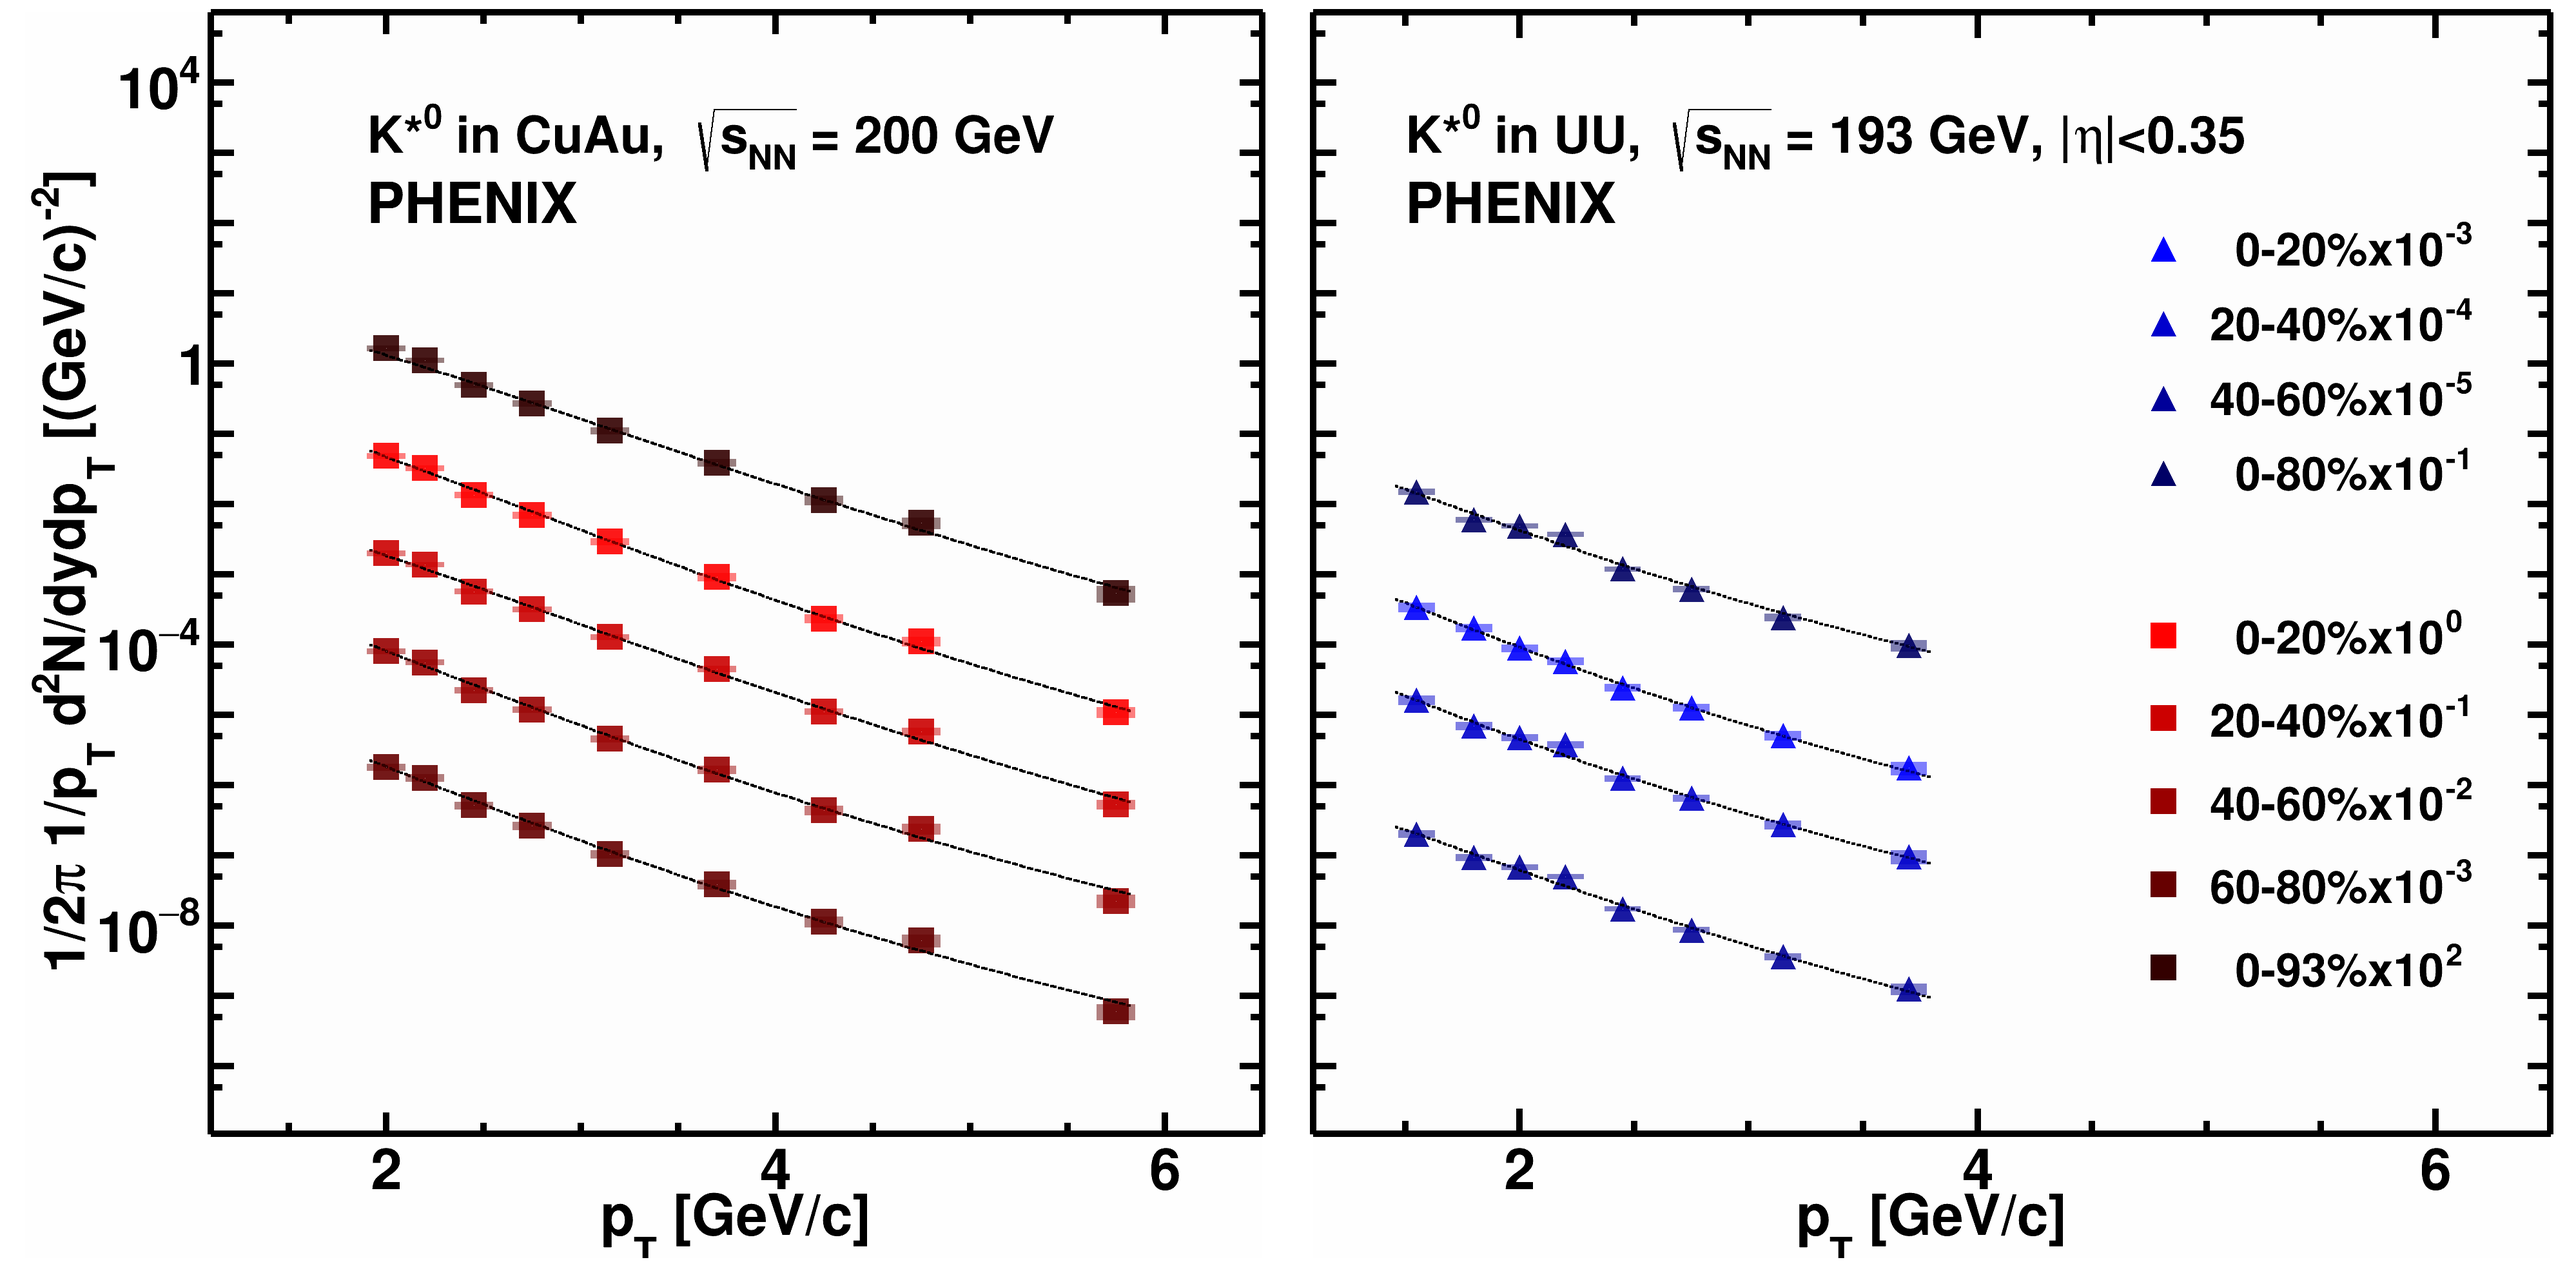
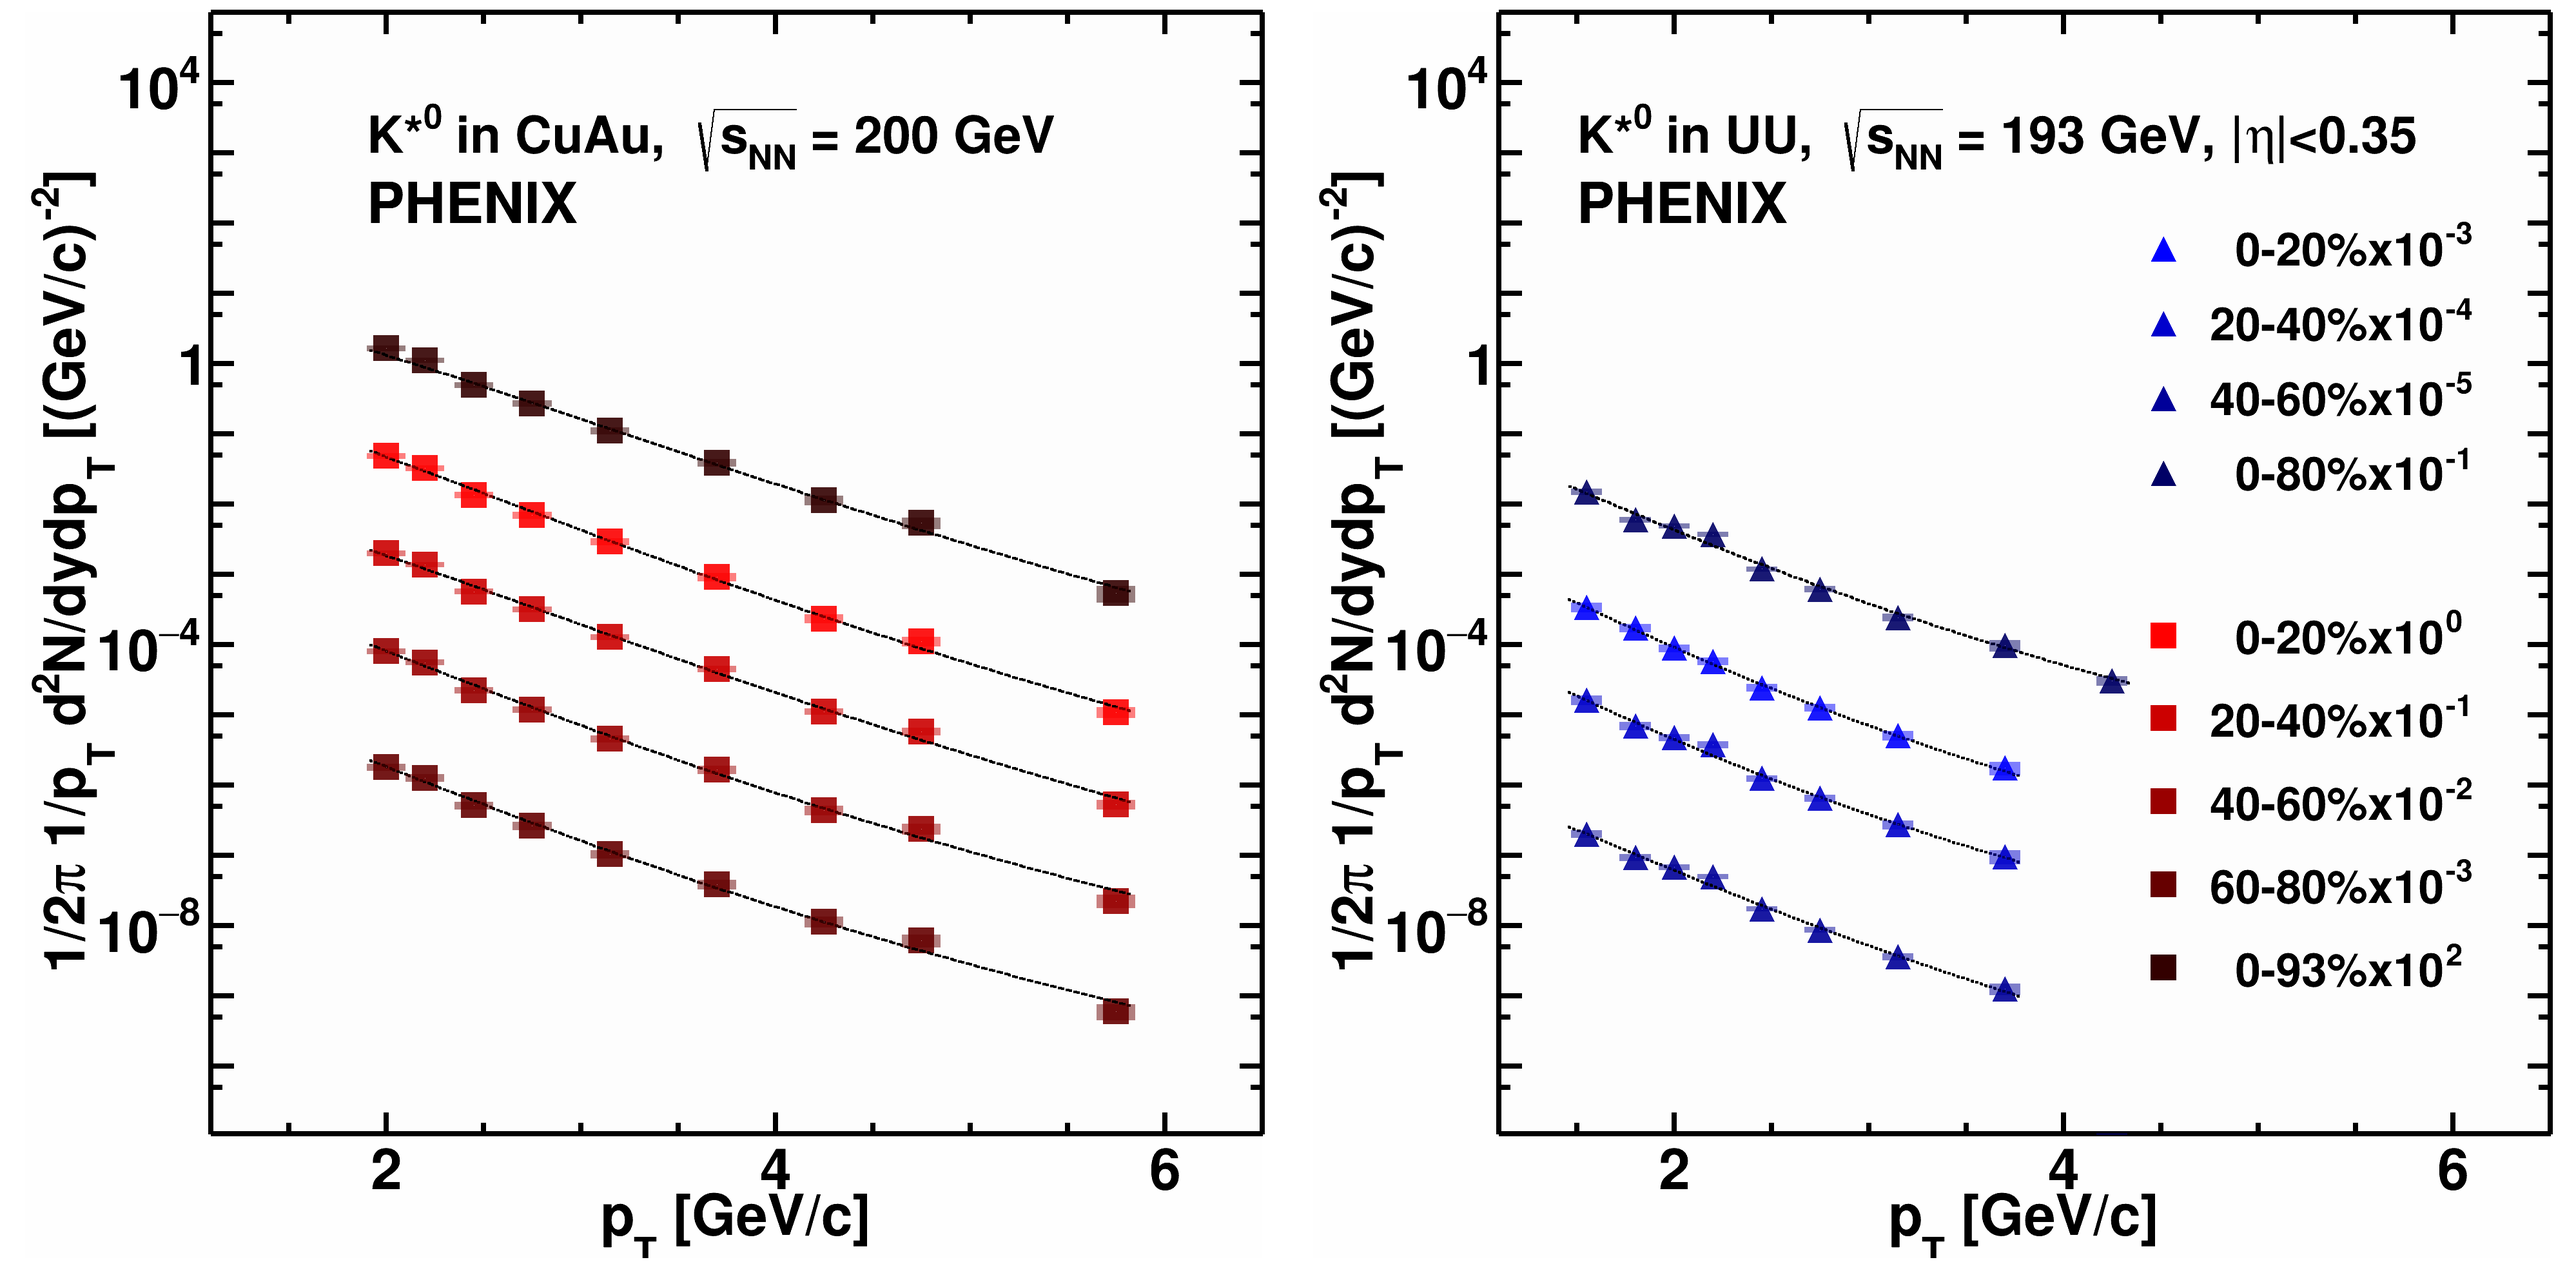
add plots

diff --git a/plotter.cpp b/plotter.cpp
@@ -242,7 +242,7 @@ void plotter_spectra_for_ppg_heavy() {
   Format_Legend(leg[0], 62, 0.04, 0, 0, "");
   TString name_cen_cuau[] = {"  0-20%", "20-40%", "40-60%", "60-80%", "  0-93%"};
   double par_sp_cuau[] = {0.15, 0.0, 0.1, 0.};
-  double param_pad_sp_cuau[] = {1.1, 6.5, 1.1e-11, 1e5 - 1, 0.95, 1.4, 0.05, 0.05, 1, 504, 504};
+  double param_pad_sp_cuau[] = {1.1, 6.5, 1.1e-11, 1e5 - 1, 0.95, 1.4, 0.05, 0.05, 1, 504, 504, 1};
   double koeff_levy_cuau[5] = {2 - 0.1, 5.75 + 0.1, 0.0455202, 10.0277, 0.252345};
   Color_t color_cuau[] = {kAzure, kAzure + 1, kAzure + 2, kAzure + 3, kBlack};
 
@@ -259,9 +259,10 @@ void plotter_spectra_for_ppg_heavy() {
   leg[1] = new TLegend(0.65, 0.6, 0.95, 0.9);
   Format_Legend(leg[1], 62, 0.04, 0, 0, "");
   TString name_cen_uu[] = {"  0-20%", "20-40%", "40-60%", "  0-80%"};
-  double par_sp_uu[] = {0., 0., 0.1, 0.0};
-  double param_pad_sp_uu[] = {1.1, 6.5, 1.1e-11, 1e5 - 1, 0.95, 1.4, 0.05, 0.05, 1, 504, 504};
+  double par_sp_uu[] = {0.15, 0., 0.1, 0.0};
+  double param_pad_sp_uu[] = {1.1, 6.5, 1.1e-11, 1e5 - 1, 0.95, 1.4, 0.05, 0.05, 1, 504, 504, 1};
   double koeff_levy_uu[] = {1.55 - 0.1, 3.7 + 0.1, 0.0455202, 10.0277, 0.252345};
+  double koeff_levy_uu_2[] = {1.55 - 0.1, 4.25 + 0.1, 0.0455202, 10.0277, 0.252345};
 
 
   auto c1 = new TCanvas("c1", "c1", 4000, 2000);
@@ -289,12 +290,15 @@ void plotter_spectra_for_ppg_heavy() {
     kstar_uu->sp_draw_sys(j);
     leg[1]->AddEntry(kstar_uu->graph_for_legend(5, j), name_cen_uu[j] + "x" + coeff_for_uu.name_coeff[j], "p");
   }
+
+  for (int j = 3; j < 4; ++j) {kstar_uu->sp_fit(koeff_levy_uu_2, j);}
+
   leg[0]->Draw();
   leg[1]->Draw();
   name_fig[1]->Draw();
   phenix[1]->Draw();
 
-  c1->Print("spectra_cuau_uu.png");
+  c1->Print("ppg_plots/spectra_cuau_uu.png");
 
   //
   auto levelwide = new TLine();
@@ -323,9 +327,10 @@ void plotter_spectra_for_ppg_heavy() {
   c2->cd(2);
   SetMarginPad(par_sp_uu);
   Format_Pad(param_pad_ratio_uu, sp_pad_title_x, "ratio");
-  for (int j = 0; j < 4; ++j) {
+  for (int j = 0; j < 3; ++j) {
     kstar_uu->data_levy_draw(j);
   }
+
   levelwide->DrawLine(param_pad_ratio_uu[0], 1, param_pad_ratio_uu[1], 1);
 
   c2->Print("ratio_cuau_uu.png");
@@ -344,24 +349,20 @@ void plotter_spectra_for_ppg_small() {
   TLegend *leg[3];
   coeff_scale_sp coeff_scale_small[3];
   double par_sp_small[3][4] = {
+          {0.15, 0.0, 0.1, 0.0},
           {0.15, 0., 0.1, 0.},
-          {0.,   0., 0.1, 0.},
-          {0.,   0., 0.1, 0.}
+          {0.15, 0.0, 0.1, 0.0}
   };
-  double param_pad_sp_small[3][11] = {
-          {1.1, 6.2, 1.1e-11, 1e5 - 1, 0.95, 1.4, 0.05, 0.05, 1, 504, 504},
-          {1.1, 6.2, 1.1e-11, 1e5 - 1, 0.95, 1.4, 0.05, 0.05, 1, 504, 504},
-          {1.1, 6.2, 1.1e-11, 1e5 - 1, 0.95, 1.4, 0.05, 0.05, 1, 504, 504}
+  double param_pad_sp_small[3][12] = {
+          {1.1, 6.2, 1.1e-11, 1e5 - 1, 0.95, 1.4, 0.05, 0.05, 1, 504, 504, 1},
+          {1.1, 6.2, 1.1e-11, 1e5 - 1, 0.95, 1.4, 0.05, 0.05, 1, 504, 504, 1},
+          {1.1, 6.2, 1.1e-11, 1e5 - 1, 0.95, 1.4, 0.05, 0.05, 1, 504, 504, 1}
   };
   TString name_cen_small[3][5] = {
           {"0-20%", "20-40%", "40-60%", "0-80%"},
           {"0-20%", "20-40%", "40-60%", "0-80%"},
           {"0-20%", "20-40%", "40-60%", "0-80%"}
   };
-
-  name_fig[0] = new TLatex(1.5, 1e3, "K*^{0} in pAl, #sqrt{s_{NN}} = 200 GeV, |#eta|<0.35");
-  name_fig[1] = new TLatex(1.5, 1e3, "K*^{0} in pAu, #sqrt{s_{NN}} = 200 GeV, |#eta|<0.35");
-  name_fig[2] = new TLatex(1.5, 1e3, "K*^{0} in ^{3}HeAu, #sqrt{s_{NN}} = 200 GeV, |#eta|<0.35");
 
 
   kstar_small[0] = new Particles("rab_kstar_pal", 4, n_kstar_pal, kMagenta);
@@ -370,6 +371,10 @@ void plotter_spectra_for_ppg_small() {
   kstar_small[0]->sp_scale(coeff_scale_small[0].coeff);
   kstar_small[0]->sp_format_graph(5, 15, 0.9);
   kstar_small[0]->sp_format_graph_sys(0.1, 5, 0.5);
+
+  name_fig[0] = new TLatex(1.5, 1e4, "K*^{0} in pAl, #sqrt{s_{NN}} = 200 GeV, |#eta|<0.35");
+  Format_Latex(name_fig[0], 62, 0.045, 2);
+
   leg[0] = new TLegend(0.7, 0.7, 0.95, 0.95);
   Format_Legend(leg[0], 42, 0.04, 0, 0, "");
 
@@ -380,6 +385,10 @@ void plotter_spectra_for_ppg_small() {
   kstar_small[1]->sp_scale(coeff_scale_small[1].coeff);
   kstar_small[1]->sp_format_graph(5, 15, 0.9);
   kstar_small[1]->sp_format_graph_sys(0.1, 5, 0.5);
+
+  name_fig[1] = new TLatex(1.5, 1e4, "K*^{0} in pAu, #sqrt{s_{NN}} = 200 GeV, |#eta|<0.35");
+  Format_Latex(name_fig[1], 62, 0.045, 2);
+
   leg[1] = new TLegend(0.7, 0.7, 0.95, 0.95);
   Format_Legend(leg[1], 42, 0.04, 0, 0, "");
 
@@ -390,6 +399,10 @@ void plotter_spectra_for_ppg_small() {
   kstar_small[2]->sp_scale(coeff_scale_small[2].coeff);
   kstar_small[2]->sp_format_graph(5, 15, 0.9);
   kstar_small[2]->sp_format_graph_sys(0.1, 5, 0.5);
+
+  name_fig[2] = new TLatex(1.5, 1e4, "K*^{0} in ^{3}HeAu, #sqrt{s_{NN}} = 200 GeV, |#eta|<0.35");
+  Format_Latex(name_fig[2], 62, 0.045, 2);
+
   leg[2] = new TLegend(0.7, 0.7, 0.95, 0.95);
   Format_Legend(leg[2], 42, 0.04, 0, 0, "");
 
@@ -400,8 +413,8 @@ void plotter_spectra_for_ppg_small() {
           {1.55 - 0.1,  5.8 + 0.1,  0.0455202, 10.0277, 0.252345}
   };
 
-  auto c1 = new TCanvas("c1", "c1", 4000, 2000);
-  Format_Canvas(c1, 3, 1, 1);
+  auto c1 = new TCanvas("c1", "c1", 6000, 2000);
+  Format_Canvas(c1, 3, 1, 0);
 
   c1->cd(1);
   SetMarginPad(par_sp_small[0]);
@@ -413,6 +426,7 @@ void plotter_spectra_for_ppg_small() {
     leg[0]->AddEntry(kstar_small[0]->graph_for_legend(5, i),
                      name_cen_small[0][i] /*+ coeff_scale_small[0].name_coeff[i]*/, "p");
   }
+  name_fig[0]->Draw();
   leg[0]->Draw();
 
 
@@ -426,6 +440,7 @@ void plotter_spectra_for_ppg_small() {
     leg[1]->AddEntry(kstar_small[1]->graph_for_legend(5, i), name_cen_small[1][i] + coeff_scale_small[1].name_coeff[i],
                      "p");
   }
+  name_fig[1]->Draw();
   leg[1]->Draw();
 
 
@@ -439,9 +454,10 @@ void plotter_spectra_for_ppg_small() {
     leg[2]->AddEntry(kstar_small[2]->graph_for_legend(5, i), name_cen_small[2][i] + coeff_scale_small[2].name_coeff[i],
                      "p");
   }
+  name_fig[2]->Draw();
   leg[2]->Draw();
 
-  c1->Print("spectra_small.png");
+  c1->Print("ppg_plots/spectra_small.png");
 
 }
 
@@ -1283,15 +1299,18 @@ void plotter_rab_uu_kstar_phi_pi0_eta() {
 }
 
 void plotter_for_ppg_integrated_rab_heavy() {
+
+  auto unity = new Particles();
+
   // 2 - 5 GeV/c
-  auto kstar_cuau = new Particles("rab_kstar_cuau", 5, n_kstar_cuau, kGreen, 107);
+  auto kstar_cuau = new Particles("rab_kstar_cuau", 5, n_kstar_cuau, kGreen + 2, 21);
   kstar_cuau->get_integrated_rab(0, 8);
-  kstar_cuau->int_format_graph(4, 4, 0.8);
+  kstar_cuau->int_format_graph(6, 4, 0.8);
   kstar_cuau->int_format_graph_sys(4, 10, 0.3);
 
-  auto kstar_uu = new Particles("rab_kstar_uu", 3, n_kstar_uu, kRed, 107);
+  auto kstar_uu = new Particles("rab_kstar_uu", 3, n_kstar_uu, kRed, 20);
   kstar_uu->get_integrated_rab(2, 8);
-  kstar_uu->int_format_graph(4, 4, 0.8);
+  kstar_uu->int_format_graph(6, 4, 0.8);
   kstar_uu->int_format_graph_sys(4, 10, 0.3);
 
   auto kstar_cucu = new Particles("rab_kstar_cucu", 5, n_kstar_cucu, kBlue, 23);
@@ -1299,12 +1318,12 @@ void plotter_for_ppg_integrated_rab_heavy() {
   kstar_cucu->int_format_graph(7, 10, 0.5);
   kstar_cucu->int_format_graph_sys(4, 10, 0.3);
 
-  auto legend = new TLegend(0.4, 0.78, 0.15, 1.01);
+  auto legend = new TLegend(1, 0.78, 0.75, 1.01);
   Format_Legend(legend, 62, 0.05, 0, 0, "");
 
-  legend->AddEntry(kstar_cuau->graph_legend(8), "CuAu", "p");
-  legend->AddEntry(kstar_uu->graph_legend(8), "UU", "p");
-  legend->AddEntry(kstar_cucu->graph_legend(8), "CuCu", "p");
+  legend->AddEntry(kstar_cuau->graph_legend(10), "CuAu", "p");
+  legend->AddEntry(kstar_uu->graph_legend(10), "UU", "p");
+  legend->AddEntry(kstar_cucu->graph_legend(10), "CuCu", "p");
 
 
   auto c2 = new TCanvas("c2", "c2", 4000, 4000);
@@ -1313,10 +1332,18 @@ void plotter_for_ppg_integrated_rab_heavy() {
   double par[4] = {0.1, 0.0, 0.1, 0.0};
   SetMarginPad(par);
 
-  double param_pad[] = {0.1, 220, 0.2, 2.1, 0.9, 0.9, 0.05, 0.05, 0, 504, 506, 1};
+  double param_pad[] = {0.1, 350, 0.2, 2.1, 0.9, 0.9, 0.05, 0.05, 0, 504, 506, 1};
   TString pad_title_x = "N_{part}";
   TString pad_title_y = "#LTR_{AB}#GT";
   Format_Pad(param_pad, pad_title_x, pad_title_y);
+
+
+  Double_t param_lat_name[] = {30, 1.91, 62, 0.049, 2};
+  kstar_uu->latex_draw(param_lat_name, "2 < p_{T}(Gev/c) < 5");
+
+
+  double params[5] = {param_pad[0], param_pad[1], 7, 1, 10};
+  unity->unity_level(params);
 
   kstar_cuau->int_draw_all();
   kstar_uu->int_draw_all();
@@ -1394,7 +1421,7 @@ void plotter_for_ppg_integrated_rab_small() {
 }
 
 void plotter() {
-  plotter_for_ppg_integrated_rab_small();
+  plotter_spectra_for_ppg_small();
   // join_plot();
 }
 
